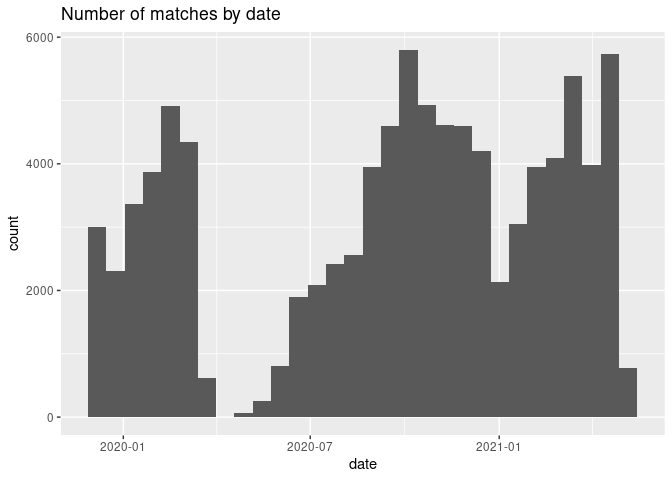
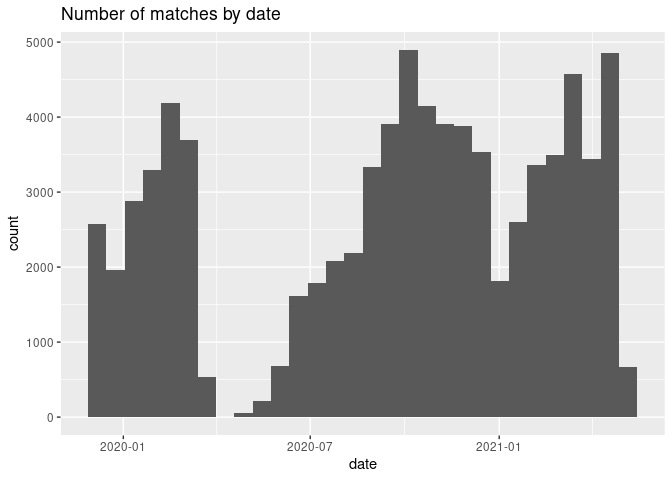
base level validation set

diff --git a/summary.md b/summary.md
@@ -4,7 +4,7 @@ We just read the train.csv file. This contains a lot of data. We also
 make some variables to describe the columns of the data set.
 
 ``` r
-matches <- read.csv("matches_train.csv")
+matches <- read.csv("base_train.csv")
 columns <- colnames(matches)
 columns_for_game <- columns[grepl("[0-9]", columns) == FALSE]
 columns_for_prev_game <- columns[grepl("[0-9]", columns) == TRUE]
@@ -52,10 +52,10 @@ head(matches["id"])
     ##         id
     ## 1 11906497
     ## 2 11983301
-    ## 3 11983471
-    ## 4 11883005
-    ## 5 11974168
-    ## 6 11974170
+    ## 3 11974170
+    ## 4 11974169
+    ## 5 11982841
+    ## 6 11974171
 
 #### target
 
@@ -69,9 +69,9 @@ head(matches["target"])
     ##   target
     ## 1   away
     ## 2   draw
-    ## 3   away
-    ## 4   home
-    ## 5   draw
+    ## 3   home
+    ## 4   away
+    ## 5   home
     ## 6   home
 
 #### home_team_name
@@ -85,22 +85,22 @@ head(matches["home_team_name"])
     ##       home_team_name
     ## 1  Newell's Old Boys
     ## 2              UPNFM
-    ## 3               León
-    ## 4     Cobán Imperial
-    ## 5 Hawke's Bay United
-    ## 6    Team Wellington
+    ## 3    Team Wellington
+    ## 4 Hamilton Wanderers
+    ## 5             Quiché
+    ## 6      Auckland City
 
 ``` r
 matches %>% count(home_team_name, sort=TRUE) %>% head()
 ```
 
     ##   home_team_name  n
-    ## 1     Al Ittihad 81
-    ## 2    River Plate 60
-    ## 3        Rangers 53
-    ## 4         Gorica 52
-    ## 5       Juventus 52
-    ## 6        Al Ahli 51
+    ## 1     Al Ittihad 71
+    ## 2    River Plate 52
+    ## 3       Juventus 47
+    ## 4        Al Ahli 46
+    ## 5        Arsenal 46
+    ## 6         Gorica 44
 
 #### away_team_name
 
@@ -110,25 +110,25 @@ The name of the Away the team. Hidden in test set, see this discussion
 head(matches["away_team_name"])
 ```
 
-    ##      away_team_name
-    ## 1       River Plate
-    ## 2          Marathón
-    ## 3           Morelia
-    ## 4            Iztapa
-    ## 5   Eastern Suburbs
-    ## 6 Canterbury United
+    ##           away_team_name
+    ## 1            River Plate
+    ## 2               Marathón
+    ## 3      Canterbury United
+    ## 4 Wellington Phoenix Res
+    ## 5              Marquense
+    ## 6          Tasman United
 
 ``` r
 matches %>% count(away_team_name, sort=TRUE) %>% head()
 ```
 
     ##   away_team_name  n
-    ## 1     Al Ittihad 71
-    ## 2    River Plate 71
-    ## 3      Liverpool 55
-    ## 4        Olimpia 52
-    ## 5        Rangers 52
-    ## 6        Al Ahli 51
+    ## 1     Al Ittihad 60
+    ## 2    River Plate 59
+    ## 3      Liverpool 47
+    ## 4        Rangers 45
+    ## 5  Real Sociedad 44
+    ## 6        Al Ahli 43
 
 #### match_date
 
@@ -143,8 +143,8 @@ head(matches["match_date"])
     ## 2 2019-12-01 01:00:00
     ## 3 2019-12-01 01:00:00
     ## 4 2019-12-01 01:00:00
-    ## 5 2019-12-01 01:00:00
-    ## 6 2019-12-01 01:00:00
+    ## 5 2019-12-01 02:00:00
+    ## 6 2019-12-01 03:00:00
 
 Use Lubridate to parse the dates from a string.
 
@@ -184,25 +184,25 @@ The league name.
 head(matches["league_name"])
 ```
 
-    ##     league_name
-    ## 1     Superliga
-    ## 2 Liga Nacional
-    ## 3       Liga MX
-    ## 4 Liga Nacional
-    ## 5   Premiership
-    ## 6   Premiership
+    ##        league_name
+    ## 1        Superliga
+    ## 2    Liga Nacional
+    ## 3      Premiership
+    ## 4      Premiership
+    ## 5 Primera Division
+    ## 6      Premiership
 
 ``` r
 matches %>% count(league_name, sort=TRUE) %>% head()
 ```
 
     ##        league_name    n
-    ## 1   Premier League 4711
-    ## 2  Club Friendlies 3163
-    ## 3 Primera Division 2020
-    ## 4     Super League 1317
-    ## 5          3. Liga 1118
-    ## 6          Ligue 1 1019
+    ## 1   Premier League 4011
+    ## 2  Club Friendlies 2703
+    ## 3 Primera Division 1747
+    ## 4     Super League 1118
+    ## 5          3. Liga  950
+    ## 6          Ligue 1  855
 
 #### league_id
 
@@ -216,9 +216,9 @@ head(matches["league_id"])
     ##   league_id
     ## 1       636
     ## 2       734
-    ## 3       743
-    ## 4       705
-    ## 5      1055
+    ## 3      1055
+    ## 4      1055
+    ## 5       708
     ## 6      1055
 
 #### is_cup
@@ -230,8 +230,8 @@ matches %>% count(is_cup, sort=TRUE)
 ```
 
     ##   is_cup     n
-    ## 1  False 86590
-    ## 2   True  7707
+    ## 1  False 73628
+    ## 2   True  6525
     ## 3            1
 
 #### home_team_coach_id
@@ -245,10 +245,10 @@ head(matches["home_team_coach_id"])
     ##   home_team_coach_id
     ## 1             468196
     ## 2            2510608
-    ## 3            1552508
-    ## 4             429958
-    ## 5           37350025
-    ## 6           37347427
+    ## 3           37347427
+    ## 4            5683765
+    ## 5           37252510
+    ## 6            1552285
 
 #### away_team_coach_id
 
@@ -261,10 +261,10 @@ head(matches["away_team_coach_id"])
     ##   away_team_coach_id
     ## 1             468200
     ## 2             456313
-    ## 3             465797
-    ## 4             426870
-    ## 5           37350668
-    ## 6           37348899
+    ## 3           37348899
+    ## 4             517852
+    ## 5           14676834
+    ## 6           37346930
 
 ### History
 
@@ -276,15 +276,16 @@ so we’ll just look at them for the last game of the home team.
 unique_cols_for_prev
 ```
 
-    ##  [1] "home_team_history_match_date"      "home_team_history_is_play_home"   
-    ##  [3] "home_team_history_is_cup"          "home_team_history_goal"           
-    ##  [5] "home_team_history_opponent_goal"   "home_team_history_rating"         
-    ##  [7] "home_team_history_opponent_rating" "home_team_history_coach"          
-    ##  [9] "home_team_history_league_id"       "away_team_history_match_date"     
-    ## [11] "away_team_history_is_play_home"    "away_team_history_is_cup"         
-    ## [13] "away_team_history_goal"            "away_team_history_opponent_goal"  
-    ## [15] "away_team_history_rating"          "away_team_history_opponent_rating"
-    ## [17] "away_team_history_coach"           "away_team_history_league_id"
+    ##  [1] "X.1"                               "home_team_history_match_date"     
+    ##  [3] "home_team_history_is_play_home"    "home_team_history_is_cup"         
+    ##  [5] "home_team_history_goal"            "home_team_history_opponent_goal"  
+    ##  [7] "home_team_history_rating"          "home_team_history_opponent_rating"
+    ##  [9] "home_team_history_coach"           "home_team_history_league_id"      
+    ## [11] "away_team_history_match_date"      "away_team_history_is_play_home"   
+    ## [13] "away_team_history_is_cup"          "away_team_history_goal"           
+    ## [15] "away_team_history_opponent_goal"   "away_team_history_rating"         
+    ## [17] "away_team_history_opponent_rating" "away_team_history_coach"          
+    ## [19] "away_team_history_league_id"
 
 #### home_team_history_match_date_1
 
@@ -297,10 +298,10 @@ head(matches["home_team_history_match_date_1"])
     ##   home_team_history_match_date_1
     ## 1            2019-11-26 00:10:00
     ## 2            2019-11-28 01:15:00
-    ## 3            2019-11-28 01:00:00
-    ## 4            2019-11-27 18:00:00
-    ## 5            2019-11-24 01:00:00
-    ## 6            2019-11-24 01:00:00
+    ## 3            2019-11-24 01:00:00
+    ## 4            2019-11-23 03:30:00
+    ## 5            2019-11-24 02:00:00
+    ## 6            2019-11-23 02:00:00
 
 #### home_team_history_is_play_home_1
 
@@ -345,10 +346,10 @@ head(matches["home_team_history_goal_1"])
     ##   home_team_history_goal_1
     ## 1                        0
     ## 2                        3
-    ## 3                        3
-    ## 4                        1
-    ## 5                        2
-    ## 6                        0
+    ## 3                        0
+    ## 4                        0
+    ## 5                        0
+    ## 6                        3
 
 #### home_team_history_opponent_goal_1
 
@@ -361,10 +362,10 @@ head(matches["home_team_history_opponent_goal_1"])
     ##   home_team_history_opponent_goal_1
     ## 1                                 1
     ## 2                                 1
-    ## 3                                 3
-    ## 4                                 2
-    ## 5                                 2
-    ## 6                                 1
+    ## 3                                 1
+    ## 4                                 4
+    ## 5                                 1
+    ## 6                                 0
 
 #### home_team_history_rating_1
 
@@ -377,10 +378,10 @@ head(matches["home_team_history_rating_1"])
     ##   home_team_history_rating_1
     ## 1                   3.856860
     ## 2                   5.736719
-    ## 3                   5.998800
-    ## 4                   6.295743
-    ## 5                   6.936700
-    ## 6                  11.160533
+    ## 3                  11.160533
+    ## 4                   7.919133
+    ## 5                   4.448714
+    ## 6                  13.014300
 
 #### home_team_history_opponent_rating_1
 
@@ -394,10 +395,10 @@ head(matches["home_team_history_opponent_rating_1"])
     ##   home_team_history_opponent_rating_1
     ## 1                            5.199840
     ## 2                            6.825194
-    ## 3                            5.998800
-    ## 4                            5.535514
-    ## 5                           11.379750
-    ## 6                            3.613117
+    ## 3                            3.613117
+    ## 4                           11.938750
+    ## 5                            8.771536
+    ## 6                            3.311450
 
 #### home_team_history_coach_1
 
@@ -410,10 +411,10 @@ head(matches["home_team_history_coach_1"])
     ##   home_team_history_coach_1
     ## 1                    468196
     ## 2                   2510608
-    ## 3                   1552508
-    ## 4                    429958
-    ## 5                  37350025
-    ## 6                  37347427
+    ## 3                  37347427
+    ## 4                   5683765
+    ## 5                  37252510
+    ## 6                   1552285
 
 #### home_team_history_league_id_1
 
@@ -426,7 +427,7 @@ head(matches["home_team_history_league_id_1"])
     ##   home_team_history_league_id_1
     ## 1                           636
     ## 2                           734
-    ## 3                           743
-    ## 4                           705
-    ## 5                          1055
+    ## 3                          1055
+    ## 4                          1055
+    ## 5                           708
     ## 6                          1055

diff --git a/README.md b/README.md
@@ -7,7 +7,20 @@ This repo contains code and other stuff for predicting the outcome of soccer mat
 Because git doesn't like big files, the actual training and testing data is not in this repository.
 
 After downloading the dataset off of kaggle, I used [create_validation_set.R](create_validation_set.R) to randomly split the data into a training and a testing set (85% and 15% of the total training data respectively). 
-The training data from this can be downloaded from [match_res_train.csv](https://wpi0-my.sharepoint.com/:x:/g/personal/awkinley_wpi_edu/EQCgebC2lABLmcdYSbJmwOcBDa6slsZ5WAtpk3XRO1gNDA?e=JoY5tB) and [matches_train.csv](https://wpi0-my.sharepoint.com/:x:/g/personal/awkinley_wpi_edu/EeID7MU-vANIt3PfaTi0FwkBIhh1ke8jTJ7NZ2WDNnKlHQ?e=Jnz4FW).
+Then I used [create_validation_set2.R](create_validation_set2.R) to randomly split that training data into training and testing data. These files start with `base_` and can be viewed as the bottom level of the validation set hierarchy. 
+
+To get this data you have to download it from onedrive. To try out a model, download all 4 files. The `_train.csv` files contain the predictors (`base_train.csv`) and the match results (`base_res_train.csv`) for the training set. The `_test.csv` files contain the same info, but for the testing set, which you can use to calculate the accuracy of your model after training it on the training data.
+
+[base_train.csv](https://wpi0-my.sharepoint.com/:x:/g/personal/awkinley_wpi_edu/EZsjiwOvA1dPk5MaRRKcSXgBZEj2_HbGnViq6g1XqxwMBg?e=ffVtrJ)
+
+[base_res_train.csv](https://wpi0-my.sharepoint.com/:x:/g/personal/awkinley_wpi_edu/EQmcPGDA_h1KvO_4dRP8xjIBAeHG_Jas4zEjN3DjnTsKNw?e=APbKpG)
+
+[base_test.csv](https://wpi0-my.sharepoint.com/:x:/g/personal/awkinley_wpi_edu/EYzAele8y6xJg7_jB4PbxiAB1-kmPBHjSpSrC_Tp5N0cIw?e=hTNyci)
+
+[base_res_test.csv](https://wpi0-my.sharepoint.com/:x:/g/personal/awkinley_wpi_edu/EfIRx0WGq_hKjntUOzljTssB3pNt75cjb6BI_JzAji7g6g?e=dTe1xd)
+
+
+The training data all in one from this can be downloaded from [match_res_train.csv](https://wpi0-my.sharepoint.com/:x:/g/personal/awkinley_wpi_edu/EQCgebC2lABLmcdYSbJmwOcBDa6slsZ5WAtpk3XRO1gNDA?e=JoY5tB) and [matches_train.csv](https://wpi0-my.sharepoint.com/:x:/g/personal/awkinley_wpi_edu/EeID7MU-vANIt3PfaTi0FwkBIhh1ke8jTJ7NZ2WDNnKlHQ?e=Jnz4FW). (Don't do this unless you explicitly don't want to use the bottom level validation set).
 
 The .gitignore file is set up so that if you download those files and put them in this repo folder, it won't get committed.
 
